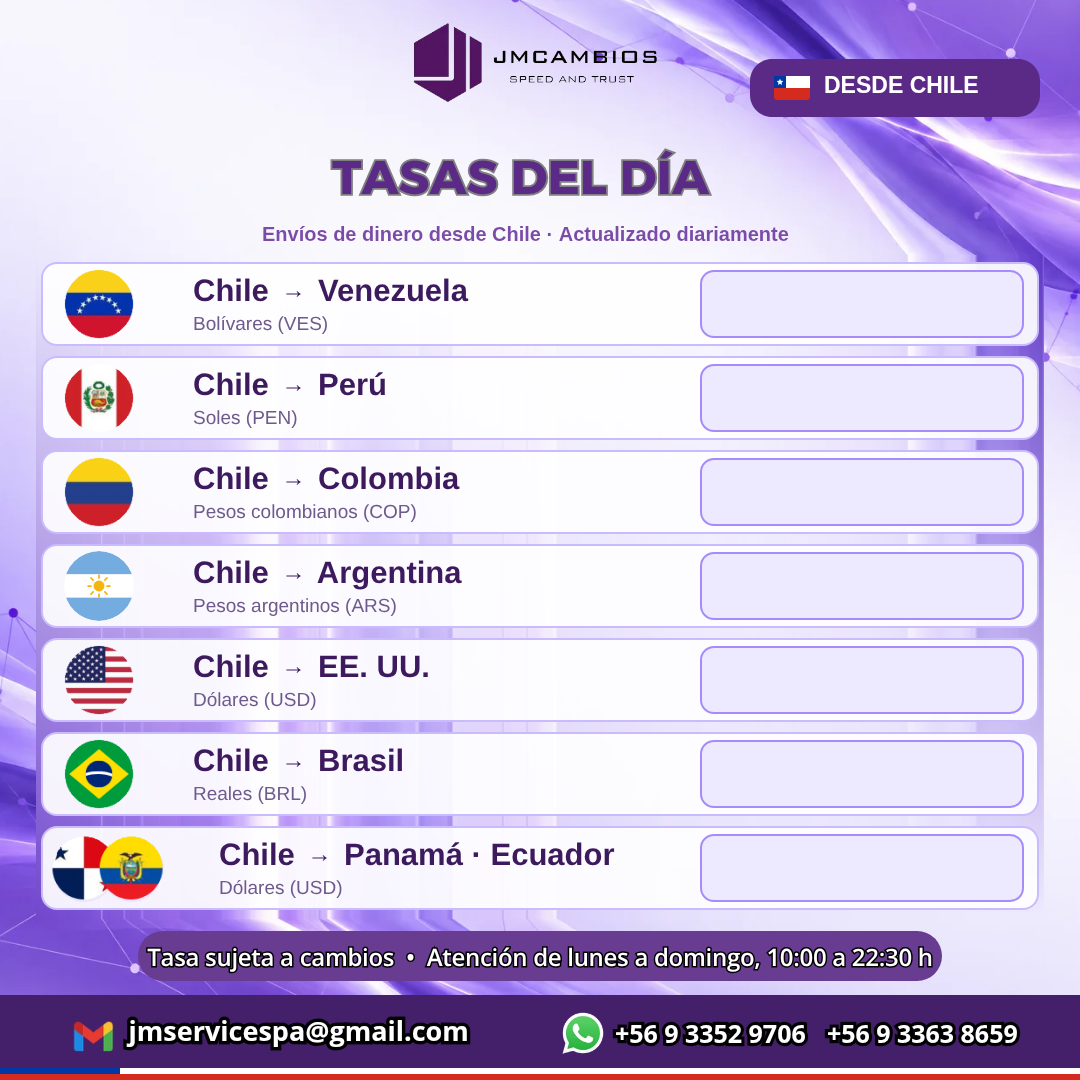
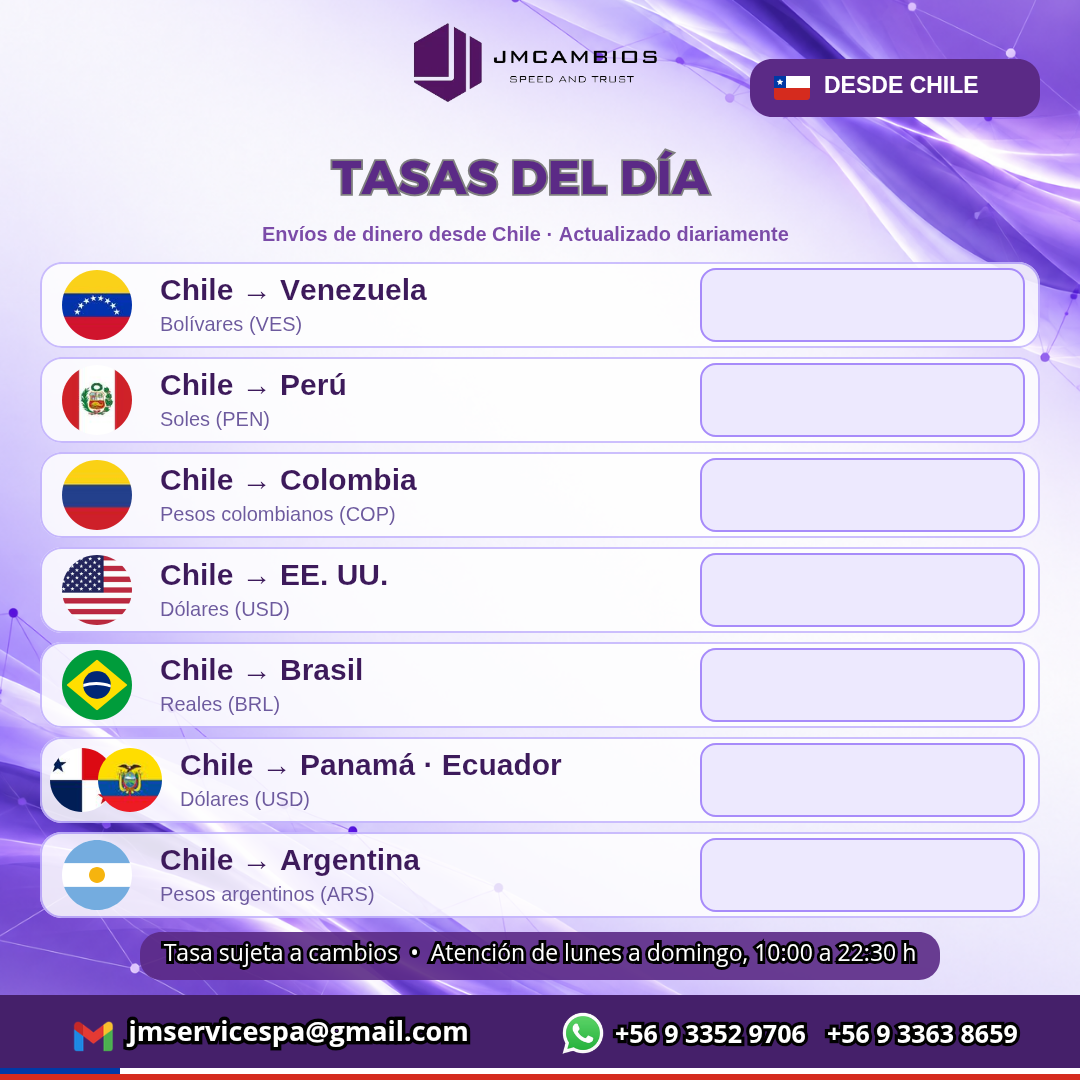
Flyer de Chile: nuevo diseño de Canva (Argentina al final, 22:30 h) con sus casillas medidas
Claude-Session: https://claude.ai/code/session_01RMbPkgn1UWmsphcd4r7zRi

Changed region(s): [[0.0306, 0.2444, 0.9778, 0.9167]]

diff --git a/cotizador/public/js/rutas.js b/cotizador/public/js/rutas.js
@@ -34,7 +34,7 @@ export const ADVISORS = {
 
 // Casillas de las plantillas de flyer (1080×1080): [ruta, centro x, centro y].
 export const FLYERS = {
-  CL: { file: '/assets/flyer-chile.png', maxW: 280, size: 50, slots: [['cl-ve', 862, 304], ['cl-pe', 862, 398], ['cl-co', 862, 492], ['cl-ar', 862, 586], ['cl-us', 862, 680], ['cl-br', 862, 774], ['cl-pa', 862, 868]] },
+  CL: { file: '/assets/flyer-chile.png', maxW: 290, size: 52, slots: [['cl-ve', 867, 305], ['cl-pe', 867, 400], ['cl-co', 867, 495], ['cl-us', 867, 590], ['cl-br', 867, 685], ['cl-pa', 867, 780], ['cl-ar', 867, 875]] },
   CO: { file: '/assets/flyer-colombia.png', maxW: 280, size: 60, slots: [['co-ve', 686, 432], ['co-cl', 686, 688]] },
   EU: { file: '/assets/flyer-europa.png', maxW: 420, size: 84, slots: [['eu-ve', 540, 686]] },
 };
